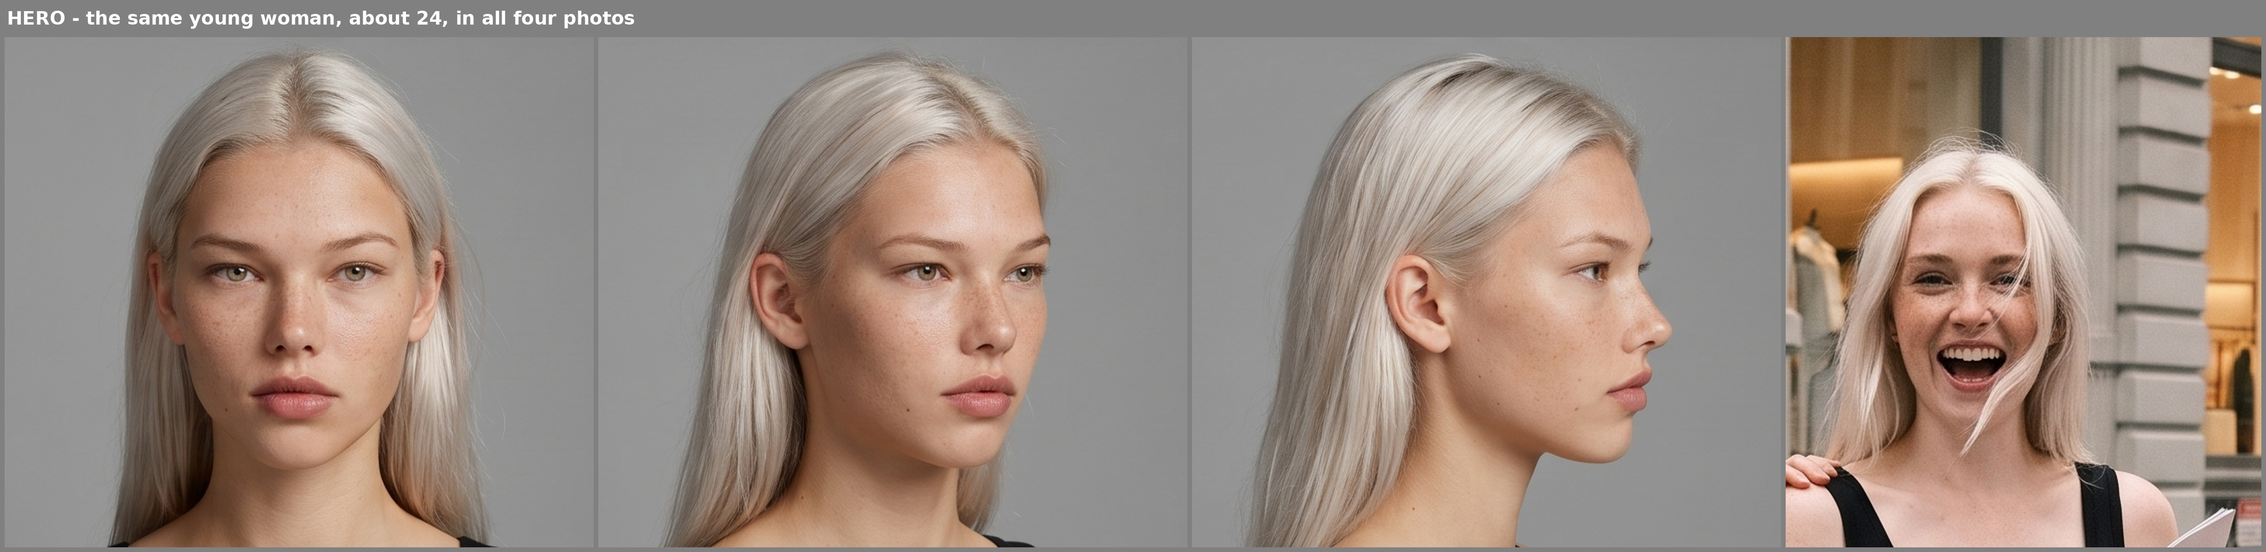
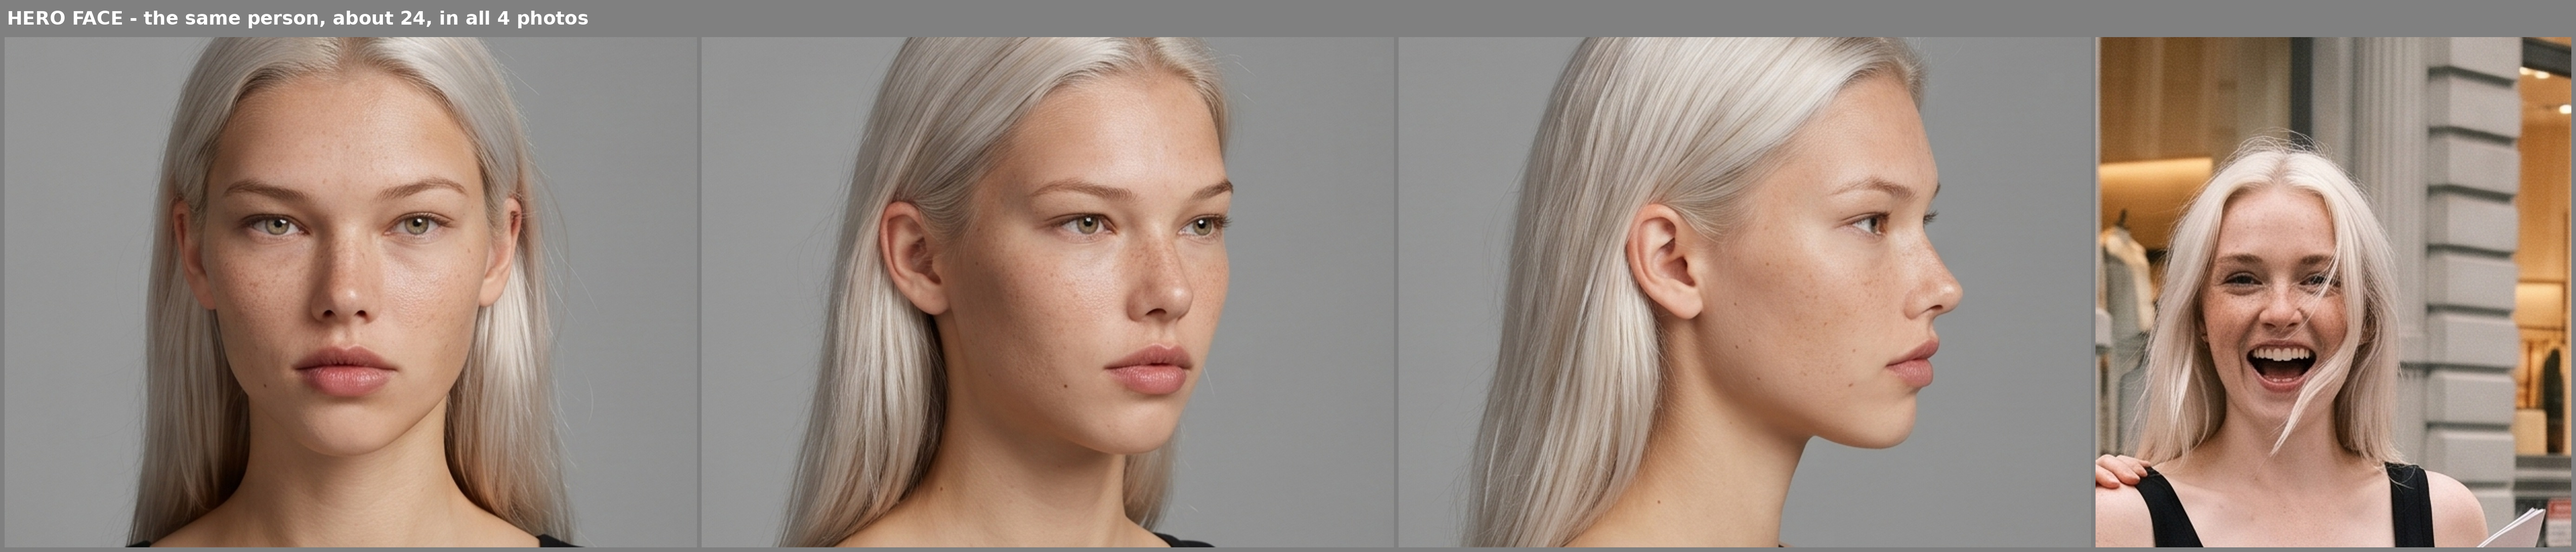
Cast v2: face boards + headless outfit photos for all five; old face+body crops removed
Claude-Session: https://claude.ai/code/session_01UrVJCYAfMmjv3QQnRf3jKV

diff --git a/index.html b/index.html
@@ -36,14 +36,17 @@
     <h2>Prompt references (v4.0) — pass these, in this order</h2>
     <div class="grid">
       <figure><img src="cast/leader_face.jpg" alt="Leader face board"><figcaption><b>1 · LEADER face board</b>Three sheet views + the approved in-scene face (K08). <code>cast/leader_face.jpg</code></figcaption></figure>
-      <figure><img src="cast/leader_body.jpg" alt="Leader body"><figcaption><b>2 · LEADER body</b><code>cast/leader_body.jpg</code></figcaption></figure>
+      <figure><img src="cast/leader_body.jpg" alt="Leader body"><figcaption><b>2 · LEADER outfit (head cropped)</b><code>cast/leader_body.jpg</code></figcaption></figure>
       <figure><img src="cast/hero_face.jpg" alt="Hero face board"><figcaption><b>3 · HERO face board</b>Three sheet views + the approved in-scene face (S2a pick). <code>cast/hero_face.jpg</code></figcaption></figure>
-      <figure><img src="cast/hero_body.jpg" alt="Hero body"><figcaption><b>4 · HERO body</b><code>cast/hero_body.jpg</code></figcaption></figure>
-      <figure><img src="cast/feather.jpg" alt="Feather"><figcaption><b>5 · FEATHER</b><code>cast/feather.jpg</code></figcaption></figure>
-      <figure><img src="cast/slicked.jpg" alt="Slicked"><figcaption><b>6 · SLICKED</b><code>cast/slicked.jpg</code></figcaption></figure>
-      <figure><img src="cast/silverman.jpg" alt="Silverman"><figcaption><b>7 · SILVERMAN</b><code>cast/silverman.jpg</code></figcaption></figure>
-      <figure><img src="plates/P-C2.jpg" alt="Plate P-C2"><figcaption><b>8 · Plate P-C2 (locked)</b>Empty set from camera mark C2. <code>plates/P-C2.jpg</code></figcaption></figure>
-      <figure><img src="blocking/shots/S2a.png" alt="S2a blocking"><figcaption><b>9 · Blocking diagram of the beat</b>One per beat, e.g. <code>blocking/shots/S2a.png</code></figcaption></figure>
+      <figure><img src="cast/hero_body.jpg" alt="Hero body"><figcaption><b>4 · HERO outfit (head cropped)</b><code>cast/hero_body.jpg</code></figcaption></figure>
+      <figure><img src="cast/feather_face.jpg" alt="FEATHER face board"><figcaption><b>5 · FEATHER face board</b><code>cast/feather_face.jpg</code></figcaption></figure>
+      <figure><img src="cast/feather_body.jpg" alt="FEATHER outfit"><figcaption><b>6 · FEATHER outfit (head cropped)</b><code>cast/feather_body.jpg</code></figcaption></figure>
+      <figure><img src="cast/slicked_face.jpg" alt="SLICKED face board"><figcaption><b>7 · SLICKED face board</b><code>cast/slicked_face.jpg</code></figcaption></figure>
+      <figure><img src="cast/slicked_body.jpg" alt="SLICKED outfit"><figcaption><b>8 · SLICKED outfit (head cropped)</b><code>cast/slicked_body.jpg</code></figcaption></figure>
+      <figure><img src="cast/silverman_face.jpg" alt="SILVERMAN face board"><figcaption><b>9 · SILVERMAN face board</b><code>cast/silverman_face.jpg</code></figcaption></figure>
+      <figure><img src="cast/silverman_body.jpg" alt="SILVERMAN outfit"><figcaption><b>10 · SILVERMAN outfit (head cropped)</b><code>cast/silverman_body.jpg</code></figcaption></figure>
+      <figure><img src="plates/P-C2.jpg" alt="Plate P-C2"><figcaption><b>11 · Plate P-C2 (locked)</b>Empty set from camera mark C2. <code>plates/P-C2.jpg</code></figcaption></figure>
+      <figure><img src="blocking/shots/S2a.png" alt="S2a blocking"><figcaption><b>12 · Blocking diagram of the beat</b>One per beat, e.g. <code>blocking/shots/S2a.png</code></figcaption></figure>
     </div>
   </section>
   <section>

diff --git a/README.md b/README.md
@@ -34,21 +34,21 @@ The sheets carry identity, hair, body and outfit only. Lighting for every shot c
 - The plans and prompts are in the claude.ai Project "aigc" (`treg-ugc-*.md`).
 
 ## Prompt references (v4.0, Nov 10) — use these, never the sheets, never an old keyframe
-Fixed order for every still or video call (max 9 images):
+Fixed order for every still call (12 images; reAPI allows 14). Each person = a FACE board (faces only, same person 3–4 times, age labelled) + an OUTFIT photo with the head cropped off, so the model can only take the face from the face board.
 
 | # | File | Role | What it is |
 |---|---|---|---|
 | 1 | `cast/leader_face.jpg` | LEADER face | 3 sheet face views + the approved in-scene face, labelled "same young woman, about 25" |
-| 2 | `cast/leader_body.jpg` | LEADER body | full-body front, the yukata |
+| 2 | `cast/leader_body.jpg` | LEADER outfit | front + back, head cropped |
 | 3 | `cast/hero_face.jpg` | HERO face | 3 sheet face views + the approved in-scene face |
-| 4 | `cast/hero_body.jpg` | HERO body | full-body front, tank + trousers |
-| 5 | `cast/feather.jpg` | FEATHER | face left, body right |
-| 6 | `cast/slicked.jpg` | SLICKED | face left, body right |
-| 7 | `cast/silverman.jpg` | SILVERMAN | face left, body right |
-| 8 | `plates/P-C2.jpg` (or the beat's camera mark) | empty set | building, crossing, sofa, desk, laptop from that camera — fixes the furniture |
-| 9 | `blocking/shots/<beat>.png` | blocking diagram | top view + projected camera view with every person and prop as a labelled shape |
+| 4 | `cast/hero_body.jpg` | HERO outfit | front + back, head cropped |
+| 5–6 | `cast/feather_face.jpg`, `cast/feather_body.jpg` | FEATHER | face board / headless outfit |
+| 7–8 | `cast/slicked_face.jpg`, `cast/slicked_body.jpg` | SLICKED | face board / headless outfit |
+| 9–10 | `cast/silverman_face.jpg`, `cast/silverman_body.jpg` | SILVERMAN | face board / headless outfit |
+| 11 | `plates/P-C2.jpg` (or the beat's camera mark) | empty set | building, crossing, sofa, desk, laptop from that camera — fixes the furniture |
+| 12 | `blocking/shots/<beat>.png` | blocking diagram | top view + projected camera view with every person and prop as a labelled shape |
 
-Old single crops `cast/leader.jpg` and `cast/hero.jpg` are superseded by the face/body pairs.
+The old single crops (`cast/leader.jpg` … `cast/silverman.jpg`, face + body in one file) are deleted; they let the model pick a face from the body panel.
 
 ## Blocking (`blocking/`)
 - `set_layout.png` — top-view floor plan of the fixed set (sofa on the crossing perpendicular to the curb, desk 2 m along at 30°, laptop screen facing the sofa).
